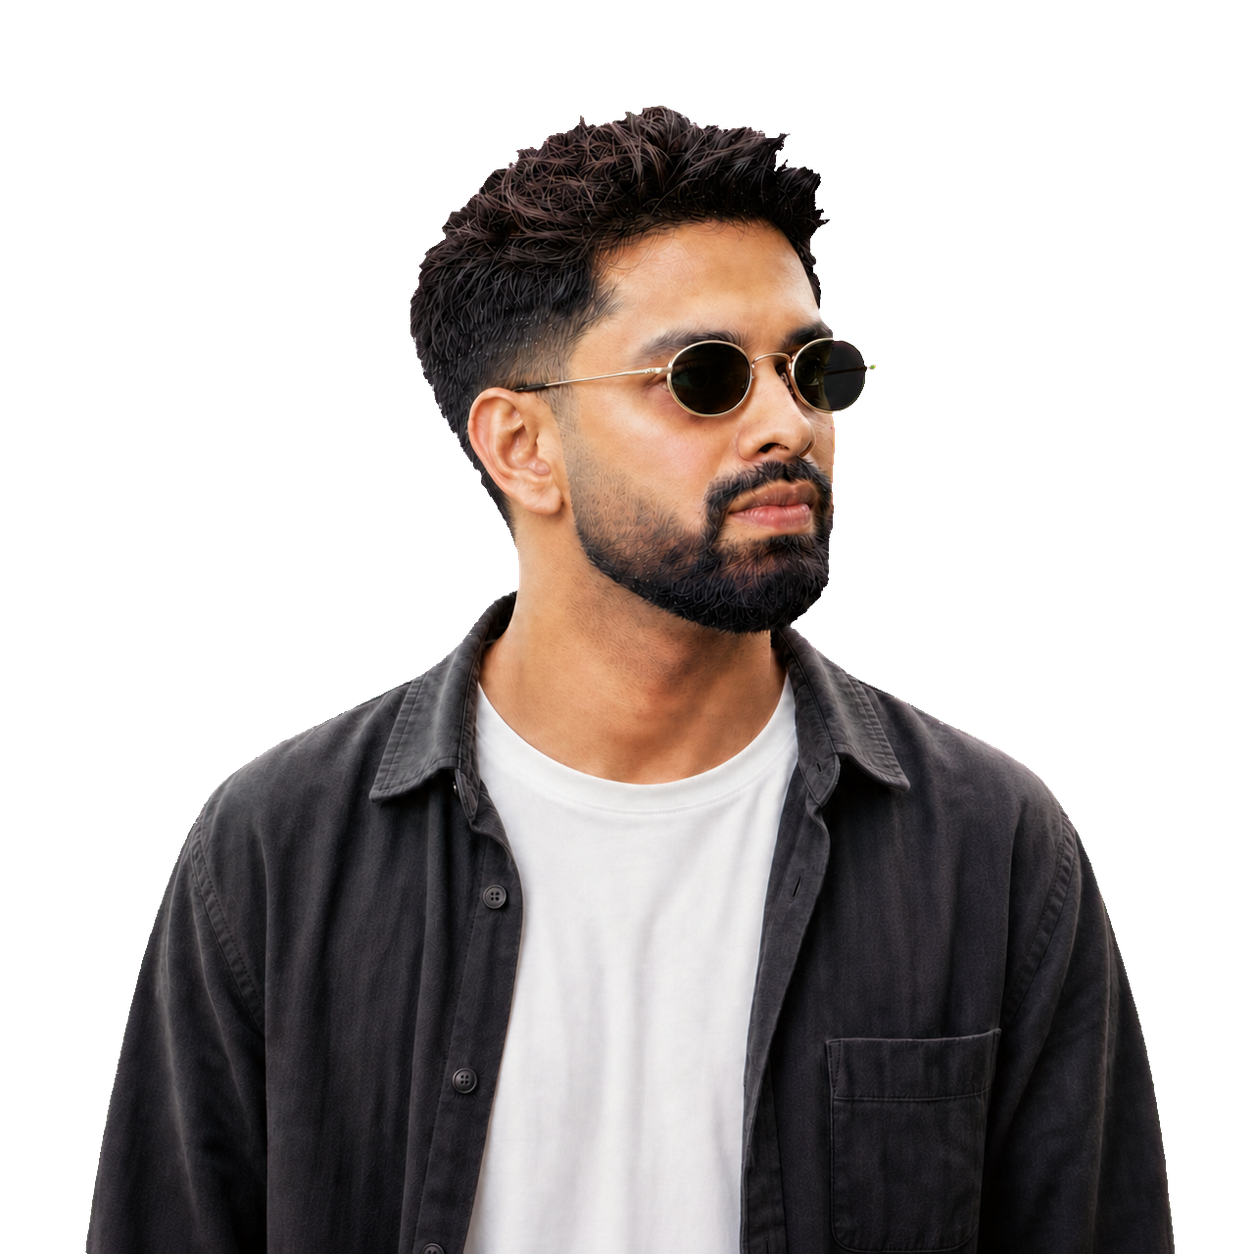
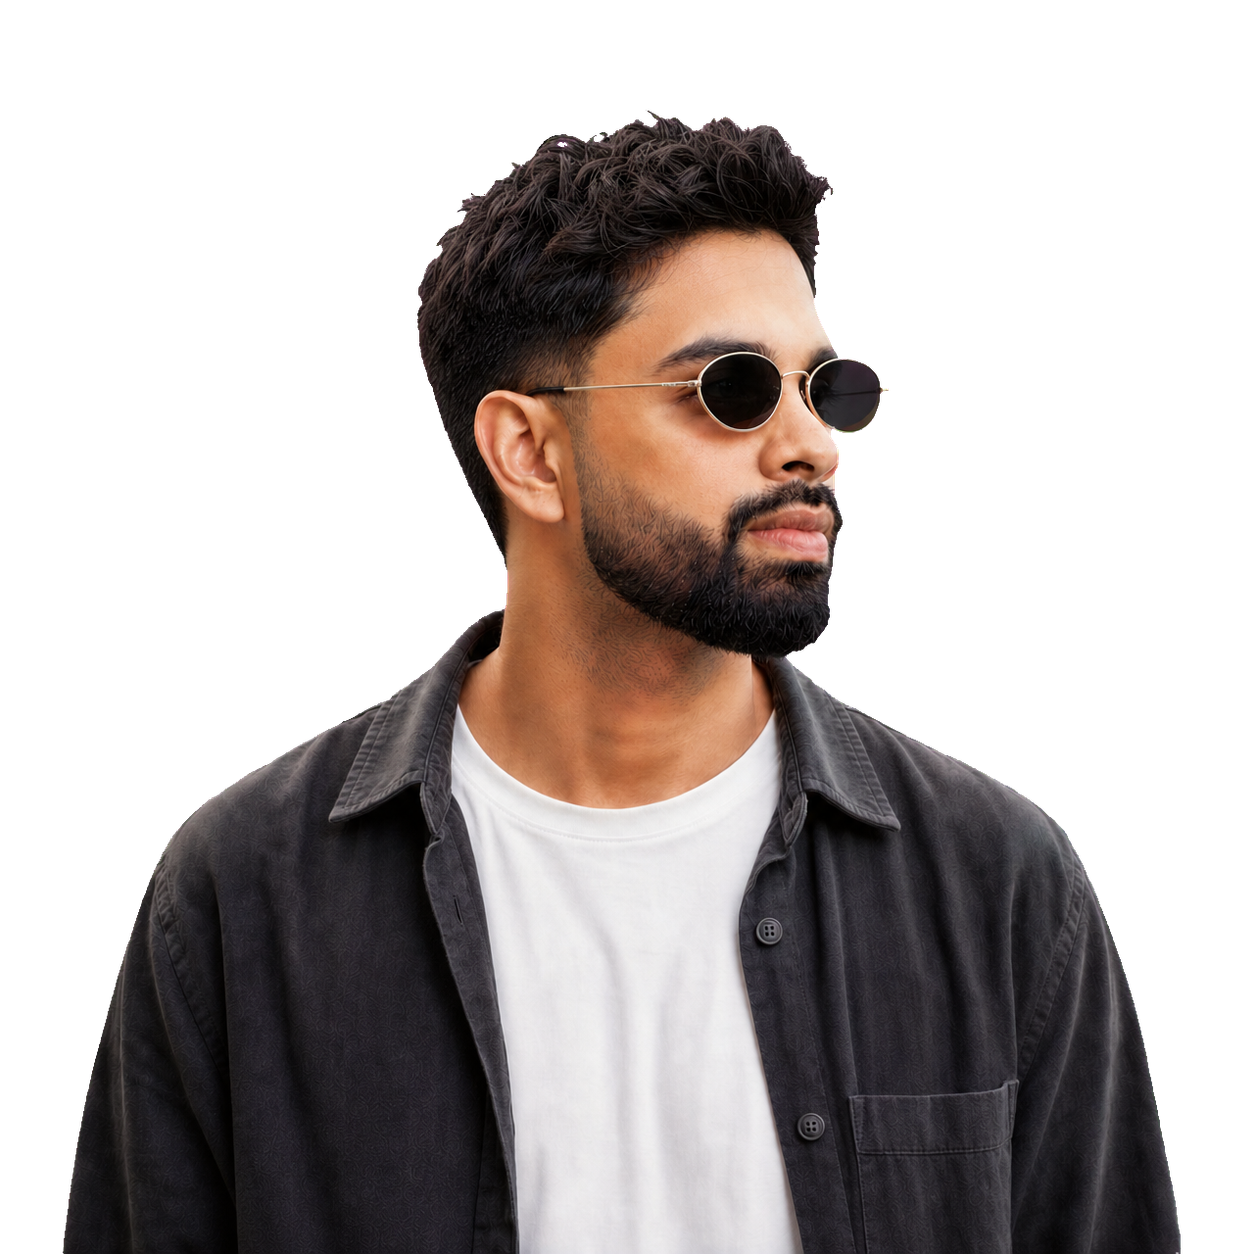
fix(face-motion): mirror right portrait framing

Changed region(s): [[0.0311, 0.0622, 0.9019, 1.0], [0.4665, 0.7464, 0.5287, 0.9019], [0.933, 0.9641, 0.9641, 1.0]]

diff --git a/src/lib/face-motion.ts b/src/lib/face-motion.ts
@@ -1,6 +1,6 @@
 export const FACE_MOTION_CONFIG = {
   assetBasePath: "/resume/face-motion/v13",
-  assetRevision: "20260815a",
+  assetRevision: "20260815b",
   centerPose: "center",
   deadZoneRatio: 0.5,
   frameIntervalMs: 36,

diff --git a/next.config.ts b/next.config.ts
@@ -14,7 +14,7 @@ const nextConfig: NextConfig = {
       },
       {
         pathname: "/resume/face-motion/v13/**",
-        search: "?rev=20260815a",
+        search: "?rev=20260815b",
       },
     ],
   },

diff --git a/public/resume/face-motion/v13/PROMPTS.md b/public/resume/face-motion/v13/PROMPTS.md
@@ -18,7 +18,7 @@ Constraints: exactly one person; exactly one pair of round sunglasses with crisp
 Avoid: top-left pose; upward-leading gaze; upward chin; low or narrow crown; compressed hair; abrupt hairline transition; missing side volume; pose drift; zooming; recentering; streaks; rectangular blocks; horizontal or vertical bands; smears; halos; white, black, gray, transparent, or checkerboard background; duplicate or warped glasses; extra accessories; text; logos; watermark
 ```
 
-## Right
+## Superseded right scale correction
 
 ```text
 Use case: identity-preserve
@@ -35,7 +35,7 @@ Constraints: exactly one person; exactly one pair of round sunglasses with crisp
 Avoid: large close-up face; oversized head; top-right pose; bottom-right pose; upward or downward gaze; low or narrow crown; compressed hair; abrupt hairline transition; zooming in; recentering drift; streaks; rectangular blocks; bands; smears; halos; white, black, gray, transparent, or checkerboard background; duplicate or warped glasses; extra accessories; text; logos; watermark
 ```
 
-## Right body-framing correction
+## Superseded right body-framing correction
 
 ```text
 Use case: identity-preserve
@@ -50,6 +50,24 @@ Required head: preserve Image 1's smaller natural face/head scale, full crown he
 Required body: match Image 2's full shoulder span and torso framing; the body must not appear zoomed out, inset, narrowed, or farther from the camera
 Constraints: change only the masked lower-body region; preserve every unmasked head/face/hair pixel as closely as possible; exactly one person; exactly one pair of round sunglasses; white crew-neck T-shirt; charcoal open overshirt; preserve lighting and natural body proportions
 Avoid: any head or face change; larger face; smaller face; head movement; pose drift; whole-subject resize; zooming out; narrow or inset shoulders; small torso; inward shoulder drift; altered hair; altered glasses; changed beard; upward or downward gaze; recentering; streaks; blocks; bands; smears; halos; white, black, gray, transparent, or checkerboard background; duplicate accessories; text; logos; watermark
+```
+
+## Right: mirrored-left base with masked detail variation
+
+```text
+Use case: identity-preserve
+Asset type: mirrored horizontal right endpoint for a smooth interactive website portrait
+Primary request: Image 1 is the exact horizontally mirrored left portrait and is already the correct final right-side geometry. Make only small masked interior-detail edits so it does not look like a mechanically mirrored duplicate: subtly vary the internal crown hair-strand clumping, give the two sunglass lenses slightly different natural dark studio reflections, relocate the charcoal overshirt chest pocket from screen-left to screen-right, and vary a few local overshirt folds and button details. Preserve the exact mirrored silhouette, pose, face, body framing, scale, and crop.
+Input images: Image 1 is the masked edit target and is the absolute authority for every spatial property: canvas, subject coordinates, horizontal screen-right 3 o'clock head and eye direction, face/head scale, facial identity, expression, beard, eyeglass geometry, complete outer hair silhouette, shoulder tips, torso width, collar, neckline, body placement, and bottom crop. Image 2 is the fixed top-right endpoint and is a supporting reference only for natural right-side crown texture and strand variation; never copy its upward pose or change Image 1's hair silhouette. Image 3 is the fixed center endpoint and is a supporting identity, lighting, and wardrobe reference only. Image 4 is the fixed bottom-right endpoint and is a supporting reference only for natural right-side lens reflections and screen-right pocket placement; never copy its downward pose, scale, or body placement.
+Scene/backdrop: perfectly flat solid #FF00FF chroma-key background covering every background pixel edge to edge, with no texture or variation
+Style/medium: natural high-resolution studio portrait photography matching the supplied person exactly
+Composition/framing: pixel-lock Image 1's outer silhouette and framing; do not move, scale, rotate, crop, widen, narrow, or recenter any part of the person
+Required pose: preserve Image 1's unmistakably horizontal screen-right 3 o'clock face and eye direction exactly; level eyeglass bridge and chin; no upward or downward component
+Required hair: preserve the complete outer hair boundary exactly; change only a few internal strand groupings and highlights inside the masked crown so the texture is not a literal mirror copy
+Required glasses: preserve rims, temples, size, and coordinates exactly; alter only the subtle interior lens reflections within the mask
+Required clothing: preserve shoulder span, torso, collar, neckline, fabric color, and outer silhouette exactly; remove the mirrored screen-left chest pocket and add the same understated pocket on screen-right; vary only a few masked microfolds and button details
+Constraints: edit only the transparent portions of the supplied mask; preserve all unmasked pixels as closely as possible; exactly one person; exactly one pair of round sunglasses; white crew-neck T-shirt; charcoal open overshirt; no change to skin, facial proportions, beard silhouette, head size, body size, or lighting
+Avoid: any generative reframing; zooming; head movement; face change; pose drift; altered hair outline; lower or narrower crown; shoulder drift; torso resize; collar shift; changed crop; upward or downward gaze; duplicate glasses; warped rims; extra pockets; obvious mirrored artifacts; strong lens glare; streaks; blocks; bands; smears; halos; white, black, gray, transparent, or checkerboard background; extra accessories; text; logos; watermark
 ```
 
 ## Right to bottom-right midpoint

diff --git a/public/resume/face-motion/v13/README.md b/public/resume/face-motion/v13/README.md
@@ -1,14 +1,14 @@
 # Face-motion V13
 
-V13 is a nine-pose compass set built from accepted **GPT Image 2** originals. Each `1254×1254` endpoint is a lossless WebP with a transparent background and a semantic filename (`center.webp`, `top-right.webp`, and so on).
+V13 is a nine-pose compass set built from accepted **GPT Image 2** originals. Each `1254×1254` endpoint is a lossless WebP with a transparent background and a semantic filename (`center.webp`, `top-right.webp`, and so on). The final right endpoint starts from an exact horizontal mirror of the accepted left endpoint and uses a tightly masked GPT Image 2 edit for small, natural asymmetries.
 
-Only border-connected magenta background removal and uniform canvas normalization were applied to the accepted generated portraits. The endpoints were not cropped, recentered, warped, interpolated, body locked, or blended.
+Only border-connected magenta background removal and uniform canvas normalization were applied to the accepted generated portraits. The endpoints were not facially warped, interpolated, body locked, or blended.
 
 The live graph currently has nine independently generated GPT Image 2 transition frames: three for top, two for left, one each for bottom, top-left, and top-right, and one for the right-to-bottom-right ring edge. Each was accepted only after visual and pose QA; failed or off-axis generations remain outside the runtime. The runtime reverses the same approved frame when travelling back across an edge, so motion stays symmetric.
 
-The extreme left and right endpoints were corrected with GPT Image 2 to point horizontally at 9 and 3 o'clock. The final right endpoint is a direct masked GPT Image 2 edit: its accepted smaller head, level 3 o'clock pose, and full crown are locked while only the lower body is regenerated against the prior right endpoint's framing. Its shoulder width, torso scale, collar, and bottom crop therefore match the rest of the compass instead of retaining the earlier zoomed-out body. `top-left.webp` and `top-right.webp` stayed byte-for-byte fixed and were supplied only as hair references for crown height, width, side fullness, texture, and identity. This keeps the tall swept crown continuous while leaving the diagonal endpoints and their upward head angles untouched.
+The extreme left and right endpoints point horizontally at 9 and 3 o'clock. The final right endpoint is a direct masked `gpt-image-2` high-quality edit of an exact horizontal mirror of `left.webp`. The mirrored silhouette, face/head scale, shoulders, torso, collar, pose, and crop provide the spatial lock; the editable mask exposes only interior crown texture, lens reflections, collar/fold details, and the pocket region. GPT Image 2 adds restrained asymmetry and restores the pocket to screen-right without recreating or reframing the subject. `top-left.webp` and `top-right.webp` stayed byte-for-byte fixed; `top-right.webp` was supplied only as a supporting hair-texture reference, while `center.webp` and `bottom-right.webp` supported identity, wardrobe, lens, and pocket details. The diagonal endpoints and their angles remain untouched.
 
-The `right` to `bottom-right` midpoint was regenerated from the corrected right endpoint and the fixed bottom-right endpoint. A final uniform alignment keeps its body width between the restored right framing and bottom-right: 1,094, 1,106, and 1,123 pixels. Hair-top position and subject height each advance by 21 pixels per hop. This removes the apparent zoom/position pulse and keeps the transparent stage clean.
+The accepted `right` to `bottom-right` GPT Image 2 midpoint received one final uniform alignment for the mirrored endpoint. Subject width now progresses 1,124, 1,120, and 1,123 pixels, while the subject top advances 108, 127, and 145 pixels. This removes the prior zoom/body pulse and keeps the transparent stage clean.
 
 `portrait-neutral.webp` is a byte-for-byte copy of `center.webp`. The automated asset verifier checks all nine endpoints for inventory, manifest hashes, lossless VP8L encoding, exact `1254×1254` dimensions, decoded uniqueness, and center/poster parity.
 

diff --git a/public/resume/face-motion/v13/VALIDATION.md b/public/resume/face-motion/v13/VALIDATION.md
@@ -1,6 +1,6 @@
 # V13 endpoint validation
 
-PASS: nine `1254×1254` lossless WebP endpoints were built from accepted GPT Image 2 magenta-background originals.
+PASS: nine `1254×1254` lossless WebP endpoints were built from accepted GPT Image 2 magenta-background outputs; the final right output uses an exact mirrored-left base with a tightly masked high-quality GPT Image 2 detail edit.
 
 - No crop, recenter, rotation, facial warp, body lock, optical flow, interpolation, or frame blending was performed.
 - Alpha is derived from border-connected magenta only. The regenerated `1280×1280` side sources were uniformly normalized to the release's `1254×1254` canvas.
@@ -14,11 +14,11 @@ PASS: nine `1254×1254` lossless WebP endpoints were built from accepted GPT Ima
 | top-right    |  `[72, 92, 1192, 1254]` |       739,480 |          6,687 |    729,288 |
 | left         | `[67, 109, 1194, 1254]` |       738,197 |         11,265 |    856,716 |
 | center       |  `[69, 99, 1196, 1254]` |       724,528 |          5,973 |    760,630 |
-| right        | `[83, 103, 1177, 1254]` |       730,873 |          9,901 |    826,820 |
+| right        | `[60, 108, 1184, 1254]` |       732,071 |         10,096 |    841,832 |
 | bottom-left  | `[74, 128, 1199, 1254]` |       732,368 |          6,483 |    725,340 |
 | bottom       | `[69, 115, 1196, 1254]` |       724,959 |          5,686 |    719,452 |
 | bottom-right | `[59, 145, 1182, 1254]` |       706,047 |          6,352 |    715,492 |
 
-Visual inspection confirmed crisp lenses and metal rims without doubled or vertically smeared eyewear, clearly horizontal 9 and 3 o'clock side poses, full crown continuity from each untouched diagonal reference, visible authored up/down movement, and the generated white crew-neck plus charcoal open overshirt in all nine endpoints. The final right is a direct GPT Image 2 output whose masked edit preserves the smaller head while restoring shoulder and torso framing. The aligned `right` to `bottom-right` transition is a visible lossless `1254×1254` frame with alpha bounds `[73, 124, 1179, 1254]`, 714,530 opaque pixels, 12,804 partial pixels, and 792,124 bytes. Right, midpoint, and bottom-right widths are 1,094, 1,106, and 1,123 pixels, while hair-top and subject-height movement advances in exact 21-pixel steps, with no opaque background or blank frame.
+Visual inspection confirmed crisp lenses and metal rims without doubled or vertically smeared eyewear, clearly horizontal 9 and 3 o'clock side poses, full crown continuity from each untouched diagonal reference, visible authored up/down movement, and the white crew-neck plus charcoal open overshirt in all nine endpoints. The final right is a direct high-quality `gpt-image-2` output based on the exact horizontal mirror of the accepted left; its mask permits only restrained internal hair, lens, collar, fold, button, and pocket changes, including a natural screen-right pocket. The aligned `right` to `bottom-right` transition is a visible lossless `1254×1254` frame with alpha bounds `[63, 127, 1183, 1254]`, 713,076 opaque pixels, 14,115 partial pixels, and 775,896 bytes. Right, midpoint, and bottom-right widths are 1,124, 1,120, and 1,123 pixels, while their subject tops advance 108, 127, and 145 pixels, with no opaque background or blank frame.
 
 Run `bun run verify:face-motion` to recreate the machine-readable QA report and contact sheet in `build/face-motion-qa/`.
